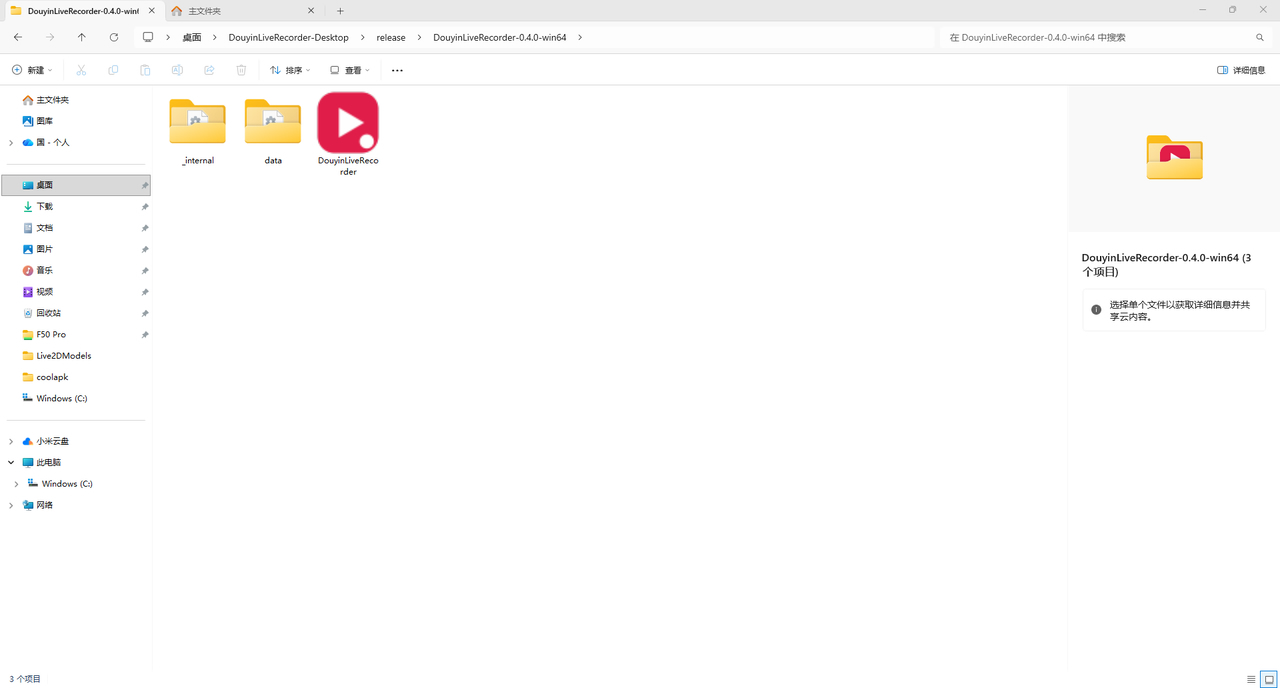
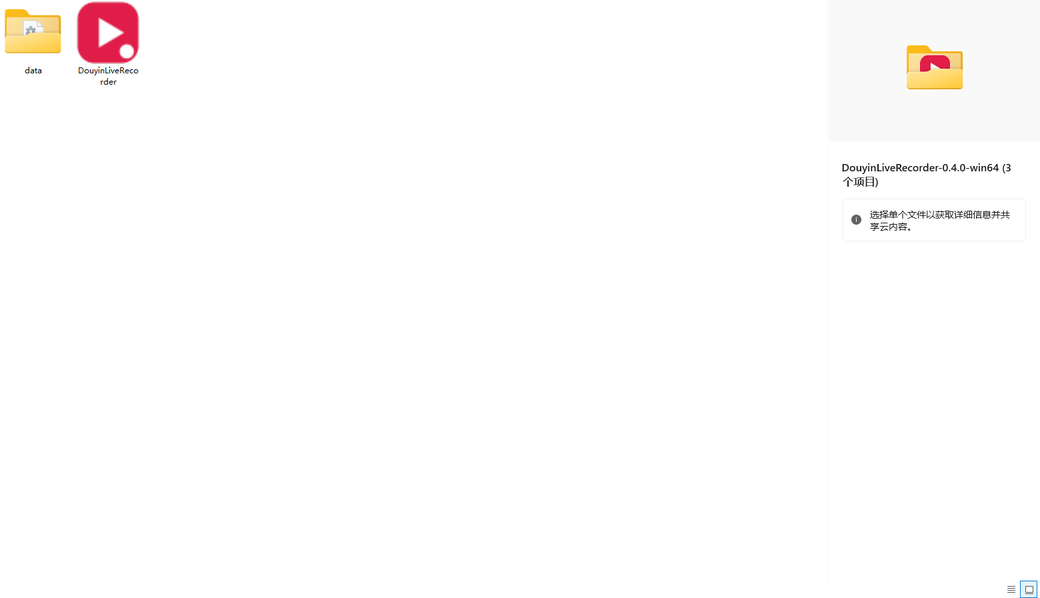
docs(release): 发布前脱敏本机路径与截图隐私信息
- 文档中的本机绝对路径改为仓库相对路径/占位符
- evidence.json 临时目录路径脱敏
- 资源管理器截图裁剪地址栏与侧边导航（保留图标证据）
- 移除含本机软件清单的任务管理器截图

diff --git a/docs/UPSTREAM_AUDIT_0.1.1.md b/docs/UPSTREAM_AUDIT_0.1.1.md
@@ -22,8 +22,8 @@
 
 1. 当前仓库 **没有任何上游代码**：无 `vendor/`、无上游包、无源码片段。唯一运行时依赖是 `PySide6-Essentials`（[pyproject.toml](../pyproject.toml)），上游使用的 `requests` / `httpx[http2]` / `PyExecJS` / `pycryptodome` / `loguru` 一个都没有引入。
 2. **没有上游远程与同步痕迹**：`git remote -v` 为空；`git log` 仅 4 个提交，全部为 2026-11-18；`docs/` 与 `THIRD_PARTY_NOTICES.txt` 中检索 `ihmily` / `上游` 均无命中。
-3. **核心数据源不同**：上游通过 `live.douyin.com/webcast/room/web/enter/` 接口 + `a_bogus` 签名（[spider.py:68-141](file:///C:/Users/kglpl/AppData/Local/Temp/dlr-upstream/DouyinLiveRecorder-main/src/spider.py#L68-L141)、`src/ab_sign.py`），本地通过公开直播页 React Flight 内嵌数据（[parser.py:90-133](file:///c:/Users/kglpl/Desktop/DouyinLiveRecorder-Desktop/src/dlrecorder/douyin/parser.py#L90-L133)），**不是同一套抓取逻辑**。
-4. **录制命令不同量级**：上游 FFmpeg 命令含 `-rw_timeout`、`-user_agent`、`-reconnect_streamed`、`-reconnect_at_eof`、`-reconnect_delay_max 60`、分段与转码（[main.py:1175-1204](file:///C:/Users/kglpl/AppData/Local/Temp/dlr-upstream/DouyinLiveRecorder-main/main.py#L1175-L1204)）；本地只有 8 个参数、`-c copy` 直封装 TS（[ffmpeg.py:104-127](file:///c:/Users/kglpl/Desktop/DouyinLiveRecorder-Desktop/src/dlrecorder/infrastructure/ffmpeg.py#L104-L127)）。
+3. **核心数据源不同**：上游通过 `live.douyin.com/webcast/room/web/enter/` 接口 + `a_bogus` 签名（[spider.py:68-141](file:///<TEMP>/dlr-upstream/DouyinLiveRecorder-main/src/spider.py#L68-L141)、`src/ab_sign.py`），本地通过公开直播页 React Flight 内嵌数据（[parser.py:90-133](../src/dlrecorder/douyin/parser.py#L90-L133)），**不是同一套抓取逻辑**。
+4. **录制命令不同量级**：上游 FFmpeg 命令含 `-rw_timeout`、`-user_agent`、`-reconnect_streamed`、`-reconnect_at_eof`、`-reconnect_delay_max 60`、分段与转码（[main.py:1175-1204](file:///<TEMP>/dlr-upstream/DouyinLiveRecorder-main/main.py#L1175-L1204)）；本地只有 8 个参数、`-c copy` 直封装 TS（[ffmpeg.py:104-127](../src/dlrecorder/infrastructure/ffmpeg.py#L104-L127)）。
 5. **这是有意决策，不是失控漂移**：2026-11-14 第二阶段技术审查后形成的工程约束明确写着“优先自研核心平台解析逻辑，如需复用第三方库需添加适配层隔离”，并限定“不得擅自扩展为多平台直播工具”。
 
 ### 0.1 评价口径（2026-11-18 项目原则）
@@ -49,8 +49,8 @@
 
 上游是**配置驱动的命令行/容器值守工具**，不是桌面应用。`index.html` 只是 FLV/M3U8 播放预览页；分发形态是 ZIP + `config/` 目录 + `DouyinLiveRecorder.exe`。无 GUI、无数据库。
 
-- 入口：[main.py](file:///C:/Users/kglpl/AppData/Local/Temp/dlr-upstream/DouyinLiveRecorder-main/main.py)（2,155 行）
-- 配置：[config/config.ini](file:///C:/Users/kglpl/AppData/Local/Temp/dlr-upstream/DouyinLiveRecorder-main/config/config.ini)（5,329 字节，约 60 项）、`config/URL_config.ini`（一行一个直播间）
+- 入口：[main.py](file:///<TEMP>/dlr-upstream/DouyinLiveRecorder-main/main.py)（2,155 行）
+- 配置：[config/config.ini](file:///<TEMP>/dlr-upstream/DouyinLiveRecorder-main/config/config.ini)（5,329 字节，约 60 项）、`config/URL_config.ini`（一行一个直播间）
 - 运行方式：`python main.py` / `uv run main.py` / Docker
 
 > 说明：下文上游代码位置的超链接指向本次审查的临时快照目录（`%TEMP%\dlr-upstream`），该目录可能被后续清理；长期引用请以 commit `add187f8` 为准，行号在同一提交内有效。
@@ -71,10 +71,10 @@
 
 ### 1.3 抖音链路的实际行为
 
-1. **获取房间数据**：优先 `web/enter` 接口（带 `a_bogus`）→ 失败回退到 `reflow/info`（app 参数）→ 再失败回退解析 `live.douyin.com` 页面 HTML（[spider.py:230-282](file:///C:/Users/kglpl/AppData/Local/Temp/dlr-upstream/DouyinLiveRecorder-main/src/spider.py#L230-L282)）。**三层回退**。
+1. **获取房间数据**：优先 `web/enter` 接口（带 `a_bogus`）→ 失败回退到 `reflow/info`（app 参数）→ 再失败回退解析 `live.douyin.com` 页面 HTML（[spider.py:230-282](file:///<TEMP>/dlr-upstream/DouyinLiveRecorder-main/src/spider.py#L230-L282)）。**三层回退**。
 2. **状态判定**：`status == 2` 视为直播中；`4` 视为未开播；直播中若无 `stream_url` 明确抛错（VR/特殊玩法不支持 PC 端）。
-3. **流地址选择**：`get_douyin_stream_url()` 按清晰度取 FLV/HLS，**先探测地址可用性，不可用自动换一档**（[stream.py:41-78](file:///C:/Users/kglpl/AppData/Local/Temp/dlr-upstream/DouyinLiveRecorder-main/src/stream.py#L41-L78)）。
-4. **录制**：每个直播间一个线程 + 全局 `semaphore`（默认 3 并发）；`ffmpeg` 带重连参数；退出码 0 后按配置转 MP4 / 分段 / 生成字幕 / 执行脚本；`q` 写入 stdin 优雅收尾（[main.py:436-449](file:///C:/Users/kglpl/AppData/Local/Temp/dlr-upstream/DouyinLiveRecorder-main/main.py#L436-L449)）。
+3. **流地址选择**：`get_douyin_stream_url()` 按清晰度取 FLV/HLS，**先探测地址可用性，不可用自动换一档**（[stream.py:41-78](file:///<TEMP>/dlr-upstream/DouyinLiveRecorder-main/src/stream.py#L41-L78)）。
+4. **录制**：每个直播间一个线程 + 全局 `semaphore`（默认 3 并发）；`ffmpeg` 带重连参数；退出码 0 后按配置转 MP4 / 分段 / 生成字幕 / 执行脚本；`q` 写入 stdin 优雅收尾（[main.py:436-449](file:///<TEMP>/dlr-upstream/DouyinLiveRecorder-main/main.py#L436-L449)）。
 
 ---
 
@@ -87,29 +87,29 @@
 
 | 能力 | 上游实现（commit `add187f8`） | 当前 0.1.1 实现 | 关系 |
 | --- | --- | --- | --- |
-| 链接识别（长链/短链/主页） | `room.py:52 get_sec_user_id`、`:78 get_unique_id`、`:109 get_live_room_id` | [models.py:26 `_extract_web_rid`](file:///c:/Users/kglpl/Desktop/DouyinLiveRecorder-Desktop/src/dlrecorder/domain/models.py#L26-L53)、`validate_web_rid` | 独立重写（仅长链；短链只提示） |
-| 房间信息与开播状态 | `spider.py:68/145/230` 三路回退 + `ab_sign` | [parser.py:153 `RealDouyinParser`](file:///c:/Users/kglpl/Desktop/DouyinLiveRecorder-Desktop/src/dlrecorder/douyin/parser.py#L153-L237) + [parser.py:90 `_extract_page_room`](file:///c:/Users/kglpl/Desktop/DouyinLiveRecorder-Desktop/src/dlrecorder/douyin/parser.py#L90-L133) | 独立重写（单一数据源） |
-| 状态语义（2=LIVE / 4=OFFLINE） | `spider.py:110`、`stream.py:51` 等硬编码 | [states.py:30 `KNOWN_STATUS_MAP`](file:///c:/Users/kglpl/Desktop/DouyinLiveRecorder-Desktop/src/dlrecorder/domain/states.py#L30-L33) | 语义一致，代码独立 |
-| 流地址解析与清晰度 | `stream.py:41 get_douyin_stream_url`（含可用性探测） | [parser.py:64 `_extract_room_stream_url`](file:///c:/Users/kglpl/Desktop/DouyinLiveRecorder-Desktop/src/dlrecorder/douyin/parser.py#L64-L82) | 独立重写（无清晰度、无探测） |
+| 链接识别（长链/短链/主页） | `room.py:52 get_sec_user_id`、`:78 get_unique_id`、`:109 get_live_room_id` | [models.py:26 `_extract_web_rid`](../src/dlrecorder/domain/models.py#L26-L53)、`validate_web_rid` | 独立重写（仅长链；短链只提示） |
+| 房间信息与开播状态 | `spider.py:68/145/230` 三路回退 + `ab_sign` | [parser.py:153 `RealDouyinParser`](../src/dlrecorder/douyin/parser.py#L153-L237) + [parser.py:90 `_extract_page_room`](../src/dlrecorder/douyin/parser.py#L90-L133) | 独立重写（单一数据源） |
+| 状态语义（2=LIVE / 4=OFFLINE） | `spider.py:110`、`stream.py:51` 等硬编码 | [states.py:30 `KNOWN_STATUS_MAP`](../src/dlrecorder/domain/states.py#L30-L33) | 语义一致，代码独立 |
+| 流地址解析与清晰度 | `stream.py:41 get_douyin_stream_url`（含可用性探测） | [parser.py:64 `_extract_room_stream_url`](../src/dlrecorder/douyin/parser.py#L64-L82) | 独立重写（无清晰度、无探测） |
 | 签名/风控 | `src/ab_sign.py`、`src/javascript/x-bogus.js`、PyExecJS | 无 | 未采用 |
-| 监控任务调度 | `main.py:545 start_record` + 线程 + semaphore | [task_manager.py:79 `MonitorWorker`](file:///c:/Users/kglpl/Desktop/DouyinLiveRecorder-Desktop/src/dlrecorder/core/task_manager.py#L79-L140)、`:216 _monitor_loop` | 独立重写（asyncio + 单事件循环） |
-| 录制进程管理 | `main.py:420 check_subprocess` | [recording_service.py:75 `RecordingService`](file:///c:/Users/kglpl/Desktop/DouyinLiveRecorder-Desktop/src/dlrecorder/application/recording_service.py#L75-L137)、[ffmpeg.py:130 `FFmpegProcess`](file:///c:/Users/kglpl/Desktop/DouyinLiveRecorder-Desktop/src/dlrecorder/infrastructure/ffmpeg.py#L130-L262) | 独立重写（管理线程 + 命令队列） |
-| FFmpeg 命令 | `main.py:1175-1204`（含 UA/headers/proxy/reconnect） | [ffmpeg.py:104 `build_record_command`](file:///c:/Users/kglpl/Desktop/DouyinLiveRecorder-Desktop/src/dlrecorder/infrastructure/ffmpeg.py#L104-L127) | 独立重写（精简，缺重连） |
-| 优雅停止 | `main.py:441-447` 写 `q` | [ffmpeg.py:185 `stop`](file:///c:/Users/kglpl/Desktop/DouyinLiveRecorder-Desktop/src/dlrecorder/infrastructure/ffmpeg.py#L185-L262)（q → terminate → kill） | 思路同源，代码独立 |
-| 文件命名/目录规则 | `main.py:494 clean_name` + 配置项 | [recording_service.py:516 `_allocate_output_path`](file:///c:/Users/kglpl/Desktop/DouyinLiveRecorder-Desktop/src/dlrecorder/application/recording_service.py#L516-L524) | 独立重写（`名称_ID_时间_随机.ts`） |
+| 监控任务调度 | `main.py:545 start_record` + 线程 + semaphore | [task_manager.py:79 `MonitorWorker`](../src/dlrecorder/core/task_manager.py#L79-L140)、`:216 _monitor_loop` | 独立重写（asyncio + 单事件循环） |
+| 录制进程管理 | `main.py:420 check_subprocess` | [recording_service.py:75 `RecordingService`](../src/dlrecorder/application/recording_service.py#L75-L137)、[ffmpeg.py:130 `FFmpegProcess`](../src/dlrecorder/infrastructure/ffmpeg.py#L130-L262) | 独立重写（管理线程 + 命令队列） |
+| FFmpeg 命令 | `main.py:1175-1204`（含 UA/headers/proxy/reconnect） | [ffmpeg.py:104 `build_record_command`](../src/dlrecorder/infrastructure/ffmpeg.py#L104-L127) | 独立重写（精简，缺重连） |
+| 优雅停止 | `main.py:441-447` 写 `q` | [ffmpeg.py:185 `stop`](../src/dlrecorder/infrastructure/ffmpeg.py#L185-L262)（q → terminate → kill） | 思路同源，代码独立 |
+| 文件命名/目录规则 | `main.py:494 clean_name` + 配置项 | [recording_service.py:516 `_allocate_output_path`](../src/dlrecorder/application/recording_service.py#L516-L524) | 独立重写（`名称_ID_时间_随机.ts`） |
 | 分段录制 | `main.py:1254-1544`、`segment_video()` | 无 | 未采用 |
 | 转 MP4 / H.264 / 字幕 / 自定义脚本 | `main.py:219/254/273/356` | 无 | 未采用 |
-| 失败重试/循环 | `main.py:555/577/664`、`error_count` | [task_manager.py:231 `while not stop_evt.is_set()`](file:///c:/Users/kglpl/Desktop/DouyinLiveRecorder-Desktop/src/dlrecorder/core/task_manager.py#L216-L290) | 部分对应（按间隔重查，非录制级重试） |
+| 失败重试/循环 | `main.py:555/577/664`、`error_count` | [task_manager.py:231 `while not stop_evt.is_set()`](../src/dlrecorder/core/task_manager.py#L216-L290) | 部分对应（按间隔重查，非录制级重试） |
 | 断线重连 | FFmpeg `-reconnect_streamed/-reconnect_at_eof` | 无 | 未采用 |
-| 配置管理 | `config/config.ini` + `URL_config.ini` | SQLite `settings` 表 + [settings_service.py:94](file:///c:/Users/kglpl/Desktop/DouyinLiveRecorder-Desktop/src/dlrecorder/application/settings_service.py#L94-L166) | 独立重写 |
-| 持久化与历史 | 无数据库 | [db.py:44 `Database`](file:///c:/Users/kglpl/Desktop/DouyinLiveRecorder-Desktop/src/dlrecorder/infrastructure/db.py#L44-L58)（Schema V2、WAL、迁移校验） | 本地新增 |
+| 配置管理 | `config/config.ini` + `URL_config.ini` | SQLite `settings` 表 + [settings_service.py:94](../src/dlrecorder/application/settings_service.py#L94-L166) | 独立重写 |
+| 持久化与历史 | 无数据库 | [db.py:44 `Database`](../src/dlrecorder/infrastructure/db.py#L44-L58)（Schema V2、WAL、迁移校验） | 本地新增 |
 | 桌面 GUI | 无 | `presentation/main_window.py`、`widgets.py` | 本地新增 |
-| 单实例 | `StopRecording.vbs`（停止脚本，非单实例） | [single_instance.py:52](file:///c:/Users/kglpl/Desktop/DouyinLiveRecorder-Desktop/src/dlrecorder/infrastructure/single_instance.py#L52-L107) 命名互斥量 | 本地新增 |
-| 备份/恢复 | `main.py:1648 backup_file`（备份配置文件） | [backup.py:87/107](file:///c:/Users/kglpl/Desktop/DouyinLiveRecorder-Desktop/src/dlrecorder/infrastructure/backup.py#L87-L135)（SQLite Backup API） | 独立实现，目标不同 |
+| 单实例 | `StopRecording.vbs`（停止脚本，非单实例） | [single_instance.py:52](../src/dlrecorder/infrastructure/single_instance.py#L52-L107) 命名互斥量 | 本地新增 |
+| 备份/恢复 | `main.py:1648 backup_file`（备份配置文件） | [backup.py:87/107](../src/dlrecorder/infrastructure/backup.py#L87-L135)（SQLite Backup API） | 独立实现，目标不同 |
 | 推送通知 | `msg_push.py`（7 种渠道） | 无 | 未采用 |
 | 代理 | `src/proxy.py` + 按平台代理列表 | 无 | 未采用 |
 | 平台覆盖 | 50+（README 清单） | 仅抖音 | 未采用（有意的范围收缩） |
-| 依赖安装 | `ffmpeg_install.py`、`initializer.py`（安装 Node） | 内置 `tools/ffmpeg`，[ffmpeg.py:50 `find_local_ffmpeg`](file:///c:/Users/kglpl/Desktop/DouyinLiveRecorder-Desktop/src/dlrecorder/infrastructure/ffmpeg.py#L50-L66) | 独立实现 |
+| 依赖安装 | `ffmpeg_install.py`、`initializer.py`（安装 Node） | 内置 `tools/ffmpeg`，[ffmpeg.py:50 `find_local_ffmpeg`](../src/dlrecorder/infrastructure/ffmpeg.py#L50-L66) | 独立实现 |
 
 ### 2.1 继承量化
 
@@ -131,17 +131,17 @@
 ### 3.1 直播间信息获取
 
 - 上游：接口优先（`web/enter` + `a_bogus`）→ app 回退 → 页面回退；**抗改版能力强，但依赖 JS 签名与 Node**。
-- 本地：只读公开页 `https://www.douyin.com/root/live/<rid>`，从 `self.__pace_f.push([1,"..."])` 记录中还原 React Flight 文本，再用 `json.JSONDecoder().raw_decode` 逐条解析（[parser.py:85-133](file:///c:/Users/kglpl/Desktop/DouyinLiveRecorder-Desktop/src/dlrecorder/douyin/parser.py#L85-L133)）。
+- 本地：只读公开页 `https://www.douyin.com/root/live/<rid>`，从 `self.__pace_f.push([1,"..."])` 记录中还原 React Flight 文本，再用 `json.JSONDecoder().raw_decode` 逐条解析（[parser.py:85-133](../src/dlrecorder/douyin/parser.py#L85-L133)）。
 - 评价：本地方案**没有签名依赖、无需 Node、无凭据**，隐私与部署复杂度更优；但**只有一条数据通路**，抗改版/抗风控能力明显弱于上游。
 
 ### 3.2 直播状态监控
 
-- 本地每个房间一个 asyncio 任务，`interval` 秒轮询；请求经 `HttpExecutor` 统一排队（容量 8），队列满只提示一次并继续重试（[task_manager.py:228-268](file:///c:/Users/kglpl/Desktop/DouyinLiveRecorder-Desktop/src/dlrecorder/core/task_manager.py#L228-L268)）。
-- 状态机严格区分“已确认状态”与“本次观测”，解析失败**不覆盖**上次确认状态（[states.py:39-72](file:///c:/Users/kglpl/Desktop/DouyinLiveRecorder-Desktop/src/dlrecorder/domain/states.py#L39-L72)）。这一点优于上游的“本轮取不到就等待”。
+- 本地每个房间一个 asyncio 任务，`interval` 秒轮询；请求经 `HttpExecutor` 统一排队（容量 8），队列满只提示一次并继续重试（[task_manager.py:228-268](../src/dlrecorder/core/task_manager.py#L228-L268)）。
+- 状态机严格区分“已确认状态”与“本次观测”，解析失败**不覆盖**上次确认状态（[states.py:39-72](../src/dlrecorder/domain/states.py#L39-L72)）。这一点优于上游的“本轮取不到就等待”。
 
 ### 3.3 直播流解析
 
-- 本地从房间对象中按 `FULL_HD1/HD1/SD1/SD2` 取第一条非空 FLV/HLS（[parser.py:50-61](file:///c:/Users/kglpl/Desktop/DouyinLiveRecorder-Desktop/src/dlrecorder/douyin/parser.py#L50-L61)），**不校验地址是否可播放**。
+- 本地从房间对象中按 `FULL_HD1/HD1/SD1/SD2` 取第一条非空 FLV/HLS（[parser.py:50-61](../src/dlrecorder/douyin/parser.py#L50-L61)），**不校验地址是否可播放**。
 - 上游会探测可用性并降档重试（`stream.py:65-69`）。这是**可感知的行为差异**：本地可能拿到已失效的高码率地址，表现为“开始录制即失败”或“立刻停止”。
 
 ### 3.4 录制任务管理
@@ -158,13 +158,13 @@
 
 ### 3.6 网络异常与断线恢复
 
-- 本地：传输错误细分为超时/DNS/TLS/连接/协议（[http_client.py:26-101](file:///c:/Users/kglpl/Desktop/DouyinLiveRecorder-Desktop/src/dlrecorder/infrastructure/http_client.py#L26-L101)），解析失败映射 `NETWORK_ERROR` 且不改变确认状态；录制中断只会标记 `failed`/`interrupted`。
+- 本地：传输错误细分为超时/DNS/TLS/连接/协议（[http_client.py:26-101](../src/dlrecorder/infrastructure/http_client.py#L26-L101)），解析失败映射 `NETWORK_ERROR` 且不改变确认状态；录制中断只会标记 `failed`/`interrupted`。
 - 上游：FFmpeg 层 `-reconnect_streamed -reconnect_at_eof -reconnect_delay_max 60`，外加外层循环重新探测。
 - **这是本次审查发现的最高优先级能力缺口**（详见 4.1 F1）。
 
 ### 3.7 平台接口兼容性
 
-- 本地只针对抖音公开页一种结构，无签名、无 Cookie、无代理、无第二数据源；页面结构变化时统一落入 `API_MALFORMED`（[parser.py:230-232](file:///c:/Users/kglpl/Desktop/DouyinLiveRecorder-Desktop/src/dlrecorder/douyin/parser.py#L230-L232)）。
+- 本地只针对抖音公开页一种结构，无签名、无 Cookie、无代理、无第二数据源；页面结构变化时统一落入 `API_MALFORMED`（[parser.py:230-232](../src/dlrecorder/douyin/parser.py#L230-L232)）。
 - 行为上是安全的（不会误开录制），但**可用性是单点的**。
 
 ---

diff --git a/docs/ACCEPTANCE_GUI_0.3.1_CANDIDATE.md b/docs/ACCEPTANCE_GUI_0.3.1_CANDIDATE.md
@@ -72,7 +72,7 @@
 
 ### 5.1 模拟流证据（不计入真实验收）
 
-既有 GUI 候选版模拟流验收（本地 HTTP MPEG-TS + MockParser + 真实 FFmpeg）结果保存在 [evidence.json](computer://c:\Users\kglpl\Desktop\DouyinLiveRecorder-Desktop\docs\screenshots\gui-candidate-20261121\evidence.json)：最小化后文件 5,767,168 → 6,029,312 字节、托盘恢复、取消/确认退出均通过。该结果**仅证明 GUI 与录制服务接线**，不作为真实抖音录制证据。
+既有 GUI 候选版模拟流验收（本地 HTTP MPEG-TS + MockParser + 真实 FFmpeg）结果保存在 [evidence.json](screenshots/gui-candidate-20261121/evidence.json)：最小化后文件 5,767,168 → 6,029,312 字节、托盘恢复、取消/确认退出均通过。该结果**仅证明 GUI 与录制服务接线**，不作为真实抖音录制证据。
 
 ## 6. 额外复核（基于变更文件的静态审查 + 只读检查）
 
@@ -80,8 +80,8 @@
 
 - `git diff 7d19dd3 ee3a445` 显示数据库、迁移、Schema、核心录制代码零改动；依赖文件零改动。
 - 主题偏好仅使用既有 `settings(key, value)` 表写入 `appearance.theme`，无新表、无新列：
-  - 读取/保存见 [theme.py](file:///c:/Users/kglpl/Desktop/DouyinLiveRecorder-Desktop/src/dlrecorder/presentation/theme.py#L624-L639)
-  - 通用键值接口见 [db.py](file:///c:/Users/kglpl/Desktop/DouyinLiveRecorder-Desktop/src/dlrecorder/infrastructure/db.py#L744-L757)
+  - 读取/保存见 [theme.py](../src/dlrecorder/presentation/theme.py#L624-L639)
+  - 通用键值接口见 [db.py](../src/dlrecorder/infrastructure/db.py#L744-L757)
 - 只读对比候选版新建库与 0.3.1 基线库：
 
 | 数据库 | Schema 版本 | 表数量 |
@@ -98,27 +98,27 @@
 
 重复调用均有幂等保护，未发现重复收尾或重复写库：
 
-- 主窗口 `closeEvent` 以 `_closing` 提前返回：[main_window.py](file:///c:/Users/kglpl/Desktop/DouyinLiveRecorder-Desktop/src/dlrecorder/presentation/main_window.py#L745-L780)
-- `dispose()` 可重复调用：[main_window.py](file:///c:/Users/kglpl/Desktop/DouyinLiveRecorder-Desktop/src/dlrecorder/presentation/main_window.py#L721-L726)
-- 录制服务缓存关闭报告：[recording_service.py](file:///c:/Users/kglpl/Desktop/DouyinLiveRecorder-Desktop/src/dlrecorder/application/recording_service.py#L315-L337)
-- 应用级 `_shutdown_done` 守卫：[app.py](file:///c:/Users/kglpl/Desktop/DouyinLiveRecorder-Desktop/src/dlrecorder/application/app.py#L274-L296)
-- 数据库 `close()` 空值守卫：[db.py](file:///c:/Users/kglpl/Desktop/DouyinLiveRecorder-Desktop/src/dlrecorder/infrastructure/db.py#L71-L75)
-- 日志桥接 `close()` 只解绑一次：[widgets.py](file:///c:/Users/kglpl/Desktop/DouyinLiveRecorder-Desktop/src/dlrecorder/presentation/widgets.py#L516-L520)
-- 托盘 `dispose()` 置空并删除：[tray.py](file:///c:/Users/kglpl/Desktop/DouyinLiveRecorder-Desktop/src/dlrecorder/presentation/tray.py#L85-L93)
+- 主窗口 `closeEvent` 以 `_closing` 提前返回：[main_window.py](../src/dlrecorder/presentation/main_window.py#L745-L780)
+- `dispose()` 可重复调用：[main_window.py](../src/dlrecorder/presentation/main_window.py#L721-L726)
+- 录制服务缓存关闭报告：[recording_service.py](../src/dlrecorder/application/recording_service.py#L315-L337)
+- 应用级 `_shutdown_done` 守卫：[app.py](../src/dlrecorder/application/app.py#L274-L296)
+- 数据库 `close()` 空值守卫：[db.py](../src/dlrecorder/infrastructure/db.py#L71-L75)
+- 日志桥接 `close()` 只解绑一次：[widgets.py](../src/dlrecorder/presentation/widgets.py#L516-L520)
+- 托盘 `dispose()` 置空并删除：[tray.py](../src/dlrecorder/presentation/tray.py#L85-L93)
 
 ### 6.3 最小化/恢复是否可能导致重复录制
 
-- 最小化路径仅在 `isMinimized()` 且非退出中时 `hide()`，不调用监控或录制启动接口：[main_window.py](file:///c:/Users/kglpl/Desktop/DouyinLiveRecorder-Desktop/src/dlrecorder/presentation/main_window.py#L239-L249)
-- 恢复路径仅 `showNormal/activateWindow/raise_`：[main_window.py](file:///c:/Users/kglpl/Desktop/DouyinLiveRecorder-Desktop/src/dlrecorder/presentation/main_window.py#L251-L255)
-- `changeEvent` 只投递隐藏动作，不触发录制：[main_window.py](file:///c:/Users/kglpl/Desktop/DouyinLiveRecorder-Desktop/src/dlrecorder/presentation/main_window.py#L735-L743)
+- 最小化路径仅在 `isMinimized()` 且非退出中时 `hide()`，不调用监控或录制启动接口：[main_window.py](../src/dlrecorder/presentation/main_window.py#L239-L249)
+- 恢复路径仅 `showNormal/activateWindow/raise_`：[main_window.py](../src/dlrecorder/presentation/main_window.py#L251-L255)
+- `changeEvent` 只投递隐藏动作，不触发录制：[main_window.py](../src/dlrecorder/presentation/main_window.py#L735-L743)
 - 录制本身由 `RecordingService` 按房间 ID 管理，UI 显示/隐藏不参与其状态机。
 
 结论：代码层面不存在最小化/恢复导致重复录制的路径；真实录制下仍建议按验收步骤实测确认。
 
 ### 6.4 托盘不可用回退
 
-- `QSystemTrayIcon.isSystemTrayAvailable()` 为假时不创建托盘，记录告警并保持普通窗口行为：[tray.py](file:///c:/Users/kglpl/Desktop/DouyinLiveRecorder-Desktop/src/dlrecorder/presentation/tray.py#L27-L33)
-- `_setup_tray` 在无托盘时置 `_tray=None`、恢复 `quitOnLastWindowClosed(True)`、侧边栏提示“系统托盘不可用”，关闭按钮走正常退出：[main_window.py](file:///c:/Users/kglpl/Desktop/DouyinLiveRecorder-Desktop/src/dlrecorder/presentation/main_window.py#L218-L237)
+- `QSystemTrayIcon.isSystemTrayAvailable()` 为假时不创建托盘，记录告警并保持普通窗口行为：[tray.py](../src/dlrecorder/presentation/tray.py#L27-L33)
+- `_setup_tray` 在无托盘时置 `_tray=None`、恢复 `quitOnLastWindowClosed(True)`、侧边栏提示“系统托盘不可用”，关闭按钮走正常退出：[main_window.py](../src/dlrecorder/presentation/main_window.py#L218-L237)
 - 无托盘时 `changeEvent` 不满足 `_tray is not None`，不会隐藏窗口。
 
 结论：静态路径完整；本轮未在真实“无通知区域”环境做运行时模拟（剩余风险见第 8 节）。

diff --git a/docs/CAPABILITY_MATRIX.md b/docs/CAPABILITY_MATRIX.md
@@ -26,7 +26,7 @@
 | 9 | 直播结束识别与收尾 | `status=4` / FFmpeg 退出后等待下一轮 | [recording_service.py:539](../src/dlrecorder/application/recording_service.py#L539-L571) 重新解析 `status=4` → 结束会话；退出码 0 → `completed` | 新增 `test_confirmed_offline_during_resume_ends_session` | 结束与断网通过退出码区分；误判风险低 | 是（语义） | 已实现 | 下播后不反复拉起，历史状态为 `completed` | 已验证（桩） |
 | 10 | 启动即值守 / 自动恢复 | 启动读取 `URL_config.ini` 全部房间并开始录制 | 自动录制仅在用户已启动监控的房间上生效；重启后不自动恢复监控 | `test_app.py`（自动录制逻辑） | 关闭程序再打开不会自动继续值守；中高风险（值守产品核心体验） | 是（行为） | 需产品确认后实现"启动时自动恢复监控" | 重启后自动恢复监控与录制 | 未实现（需确认） |
 | 11 | 手动停止与优雅收尾 | stdin `q`，10 s 兜底 | [ffmpeg.py:185](../src/dlrecorder/infrastructure/ffmpeg.py#L185-L262) `q → terminate → kill`，如实报告 | `test_ffmpeg.py`、`test_recording_service.py` | 基线实测 0.28 s 收尾，优于上游 0.52 s | 否 | 保持 | 停止后文件可播放、状态准确 | 已验证 |
-| 12 | 磁盘空间保护 | 配置阈值 + 录制前检查 | [recording_service.py](file:///c:/Users/kglpl/Desktop/DouyinLiveRecorder-Desktop/src/dlrecorder/application/recording_service.py) 启动前与轮询中检查；续录前再检查 | `test_disk_protection.py` 8 项 | 与上游等价，且覆盖续录路径 | 否 | 保持 | 低空间时停止录制且不丢已写文件 | 已验证（桩） |
+| 12 | 磁盘空间保护 | 配置阈值 + 录制前检查 | [recording_service.py](../src/dlrecorder/application/recording_service.py) 启动前与轮询中检查；续录前再检查 | `test_disk_protection.py` 8 项 | 与上游等价，且覆盖续录路径 | 否 | 保持 | 低空间时停止录制且不丢已写文件 | 已验证（桩） |
 | 13 | 录制历史与可追溯性 | 无数据库，仅文件 | SQLite 历史、`recording`/`completed`/`failed`/`interrupted` | `test_db.py`、`test_recording_service.py` | 本地方向优于上游；续录产生多个分段记录 | 否（本地新增） | 每个分段一条记录，信号带 `resumed` 标记 | 历史可定位每个文件与失败原因 | 已验证（桩） |
 | 14 | 多房间并发录制 | 线程池 + semaphore（默认 3） | 单管理线程 + 每房间子进程，无全局并发上限 | `test_recording_service.py` 双房间用例 | 未做 10+ 房间压测；单线程轮询在同步解析时会被阻塞（≤15 s） | 部分（上限思路） | 记录为已知限制，后续压测后决定是否加信号量 | 10 房间并发 10 min 无漏录 | 已实现未充分验证 |
 | 15 | 分段录制 | `main.py:1254-1544` 按大小/时长切段 | 仅在异常续录时新建文件，无主动分段 | 无 | 长录制单文件过大；低风险（TS 本身可播） | 可选 | 暂不实现 | — | 有意不采用（本期） |

diff --git a/docs/AUDIT_0.3.1_RECORDING_STATUS.md b/docs/AUDIT_0.3.1_RECORDING_STATUS.md
@@ -44,7 +44,7 @@
 
 ## 4. 两个可解码文件为什么被标记 failed
 
-状态机路径（[recording_service.py](file:///c:/Users/kglpl/Desktop/DouyinLiveRecorder-Desktop/src/dlrecorder/application/recording_service.py#L580-L632)）：
+状态机路径（[recording_service.py](../src/dlrecorder/application/recording_service.py#L580-L632)）：
 
 ```
 FFmpeg 退出码 0 → _clean_exit_outcome() 重新解析直播状态
@@ -66,10 +66,10 @@ FFmpeg 退出码 0 → _clean_exit_outcome() 重新解析直播状态
 ## 5. ID 5 的 `completed/size=0` 与库内 `failed/8372580` 差异来源
 
 - 17:24:01 写库：`finish_recording(id=5, "failed", 8372580)` —— 日志「录制失败 … exit=0」与库内值一致。
-- 17:24:08 会话收尾调用 [`_end_without_segment(failed=False)`](file:///c:/Users/kglpl/Desktop/DouyinLiveRecorder-Desktop/src/dlrecorder/application/recording_service.py#L819-L841)，该函数：
+- 17:24:08 会话收尾调用 [`_end_without_segment(failed=False)`](../src/dlrecorder/application/recording_service.py#L819-L841)，该函数：
   - **不写数据库**（此时没有打开中的分段）；
   - 但发出的 `recording_finished` 事件里 `recording_id=None`、`status="completed"`、`file_size=0`，同时 `file_path` 仍指向上一个分段（id5）的文件。
-- GUI 侧 [`_on_recording_finished`](file:///c:/Users/kglpl/Desktop/DouyinLiveRecorder-Desktop/src/dlrecorder/presentation/main_window.py#L505-L526) 直接把该事件当作「某条录制结束」记录日志并更新状态栏，于是产生 `房间 1 录制结束 status=completed size=0 file=...af593a.ts`。
+- GUI 侧 [`_on_recording_finished`](../src/dlrecorder/presentation/main_window.py#L505-L526) 直接把该事件当作「某条录制结束」记录日志并更新状态栏，于是产生 `房间 1 录制结束 status=completed size=0 file=...af593a.ts`。
 
 同类现象在 id1 也出现过（17:16:53 `status=failed size=0`，库内为 `failed/511466220`），本质相同：**会话级事件使用了分段级字段**。
 

diff --git a/docs/CAPABILITY_BASELINE.md b/docs/CAPABILITY_BASELINE.md
@@ -37,7 +37,7 @@
 ### 2.2 连续录制（`rec_bench.py`）
 
 - 两侧各录制 **600 s**，串行执行，使用各自**实际生产命令**：
-  - 本项目：[ffmpeg.py:104 `build_record_command`](file:///c:/Users/kglpl/Desktop/DouyinLiveRecorder-Desktop/src/dlrecorder/infrastructure/ffmpeg.py#L104-L127) 的 8 参数命令（`-c copy -f mpegts`）。
+  - 本项目：[ffmpeg.py:104 `build_record_command`](../src/dlrecorder/infrastructure/ffmpeg.py#L104-L127) 的 8 参数命令（`-c copy -f mpegts`）。
   - 上游：`main.py` 中抖音 FLV+TS 分支的完整参数（`-rw_timeout`、`-reconnect_streamed`、`-reconnect_at_eof`、`-reconnect_delay_max 60`、`-max_muxing_queue_size` 等）。
 - 采样：每 1 s 记录输出文件大小；每 1 s 读取 FFmpeg 进程 CPU 时间（`GetProcessTimes`）与工作集（`GetProcessMemoryInfo`）。
 - 结束：向 stdin 写入 `q`，10 s 内退出记为优雅收尾。
@@ -66,7 +66,7 @@
 
 1. 在**当前页面结构下**两者都能稳定解析，成功率无差异。
 2. 本项目单次解析时延约为上游 **2.9 倍**（1478 ms vs 504 ms），P95 约为 **4 倍**。原因是每次轮询都会下载约 1.34 MB 的完整页面并做字符串拼接 + JSON 还原，而上游请求的是小体积 JSON。
-3. 按本项目默认监控间隔 120 s（[settings_service.py:25](file:///c:/Users/kglpl/Desktop/DouyinLiveRecorder-Desktop/src/dlrecorder/application/settings_service.py#L25)）计算，**单房间每日轮询流量约 0.96 GB**（720 次 × 1.34 MB），且延迟会直接体现在开播发现时延上。
+3. 按本项目默认监控间隔 120 s（[settings_service.py:25](../src/dlrecorder/application/settings_service.py#L25)）计算，**单房间每日轮询流量约 0.96 GB**（720 次 × 1.34 MB），且延迟会直接体现在开播发现时延上。
 4. 上游具备三层数据源回退与签名能力，本项目只有单一页面数据源；本次未遇到风控/改版，因此**"抗改版能力"未被验证**，只记录为结构性差异。
 
 ---

diff --git a/阶段3A报告.md b/阶段3A报告.md
@@ -165,7 +165,7 @@ DouyinLiveRecorder-Desktop/
 
 ## 6. GUI 实际运行截图
 
-截图已保存至 [gui_screenshot.png](computer://C:\Users\kglpl\Desktop\DouyinLiveRecorder-Desktop\data\gui_screenshot.png)。
+截图已保存至 [gui_screenshot.png](data/gui_screenshot.png)。
 
 窗口包含：工具栏（添加房间、删除房间、开始监控、停止监控）、直播间列表表格（ID、直播间ID、名称、确认状态、最近解析、监控中）、日志展示区、状态栏。
 
@@ -335,7 +335,7 @@ tests/test_task_manager.py::test_task_exception_does_not_crash_loop PASSED
 
 **否**。
 
-- 所有文件创建于 `C:\Users\kglpl\Desktop\DouyinLiveRecorder-Desktop\` 工作区内。
+- 所有文件创建于 `<项目根目录>/` 工作区内。
 - Python 依赖安装于项目独立虚拟环境 `.venv\`，未全局安装。
 - 未修改系统 PATH、注册表或系统环境变量。
 - 未访问或修改其他项目目录。

diff --git a/docs/PROJECT_STATUS.md b/docs/PROJECT_STATUS.md
@@ -139,7 +139,7 @@
     同目录原 `app.log` 一并被删除（现存日志从 20:09:43 才重新开始），因此计数 7360 大于现存日志中可检索的 2950 条。
   - 监控与状态判定未受影响（20/20 全程 LIVE），内存与线程数无变化。
   - 该现象暴露真实缺陷：录制目录被外部删除时磁盘检查会刷屏。已修复
-    [disk.py](file:///c:/Users/kglpl/Desktop/DouyinLiveRecorder-Desktop/src/dlrecorder/infrastructure/disk.py)：
+    [disk.py](../src/dlrecorder/infrastructure/disk.py)：
     路径不存在时回退到最近的已存在上级目录读取卷剩余空间，同一路径只告警一次；
     新增 2 项回归测试，并复测“运行中删除录制目录”场景 70 秒，告警计数保持 0。
 - 真实 FFmpeg（离线）：本地媒体录制完成；限速 HTTP 流录制后手动停止，均为 `completed` 且文件非空。

diff --git a/docs/FINAL_ACCEPTANCE_0.3.1_CANDIDATE.md b/docs/FINAL_ACCEPTANCE_0.3.1_CANDIDATE.md
@@ -29,7 +29,7 @@
 ### 1.3 修复内容
 
 - 提交：`f168880` `fix(gui): 托盘初始化异常时安全降级`（11 行新增、2 行删除）
-- 位置：[main_window.py](file:///c:/Users/kglpl/Desktop/DouyinLiveRecorder-Desktop/src/dlrecorder/presentation/main_window.py#L218-L238)
+- 位置：[main_window.py](../src/dlrecorder/presentation/main_window.py#L218-L238)
 - 行为：捕获托盘构造/初始化异常 → 记录堆栈 → 恢复 `quitOnLastWindowClosed(True)` → 侧边栏提示“系统托盘不可用” → 继续正常启动；不触碰录制服务。
 
 ### 1.4 修复后复测

diff --git a/docs/RELEASE_0.4.0.md b/docs/RELEASE_0.4.0.md
@@ -3,7 +3,7 @@
 - 发布日期：2026-11-21
 - 技术基线：GUI Candidate 2（源码 `f168880` + 文档 `eb964e8`）
 - 发布包：`release/DouyinLiveRecorder-0.4.0-win64.zip`（onedir 便携版，内置 FFmpeg）
-- 性质：本地正式候选版本准备与封存；未上传 GitHub、未创建公开 Release
+- 性质：对外正式发布版本（GitHub Release `v0.4.0`）
 
 ## 1. 本版变更
 
